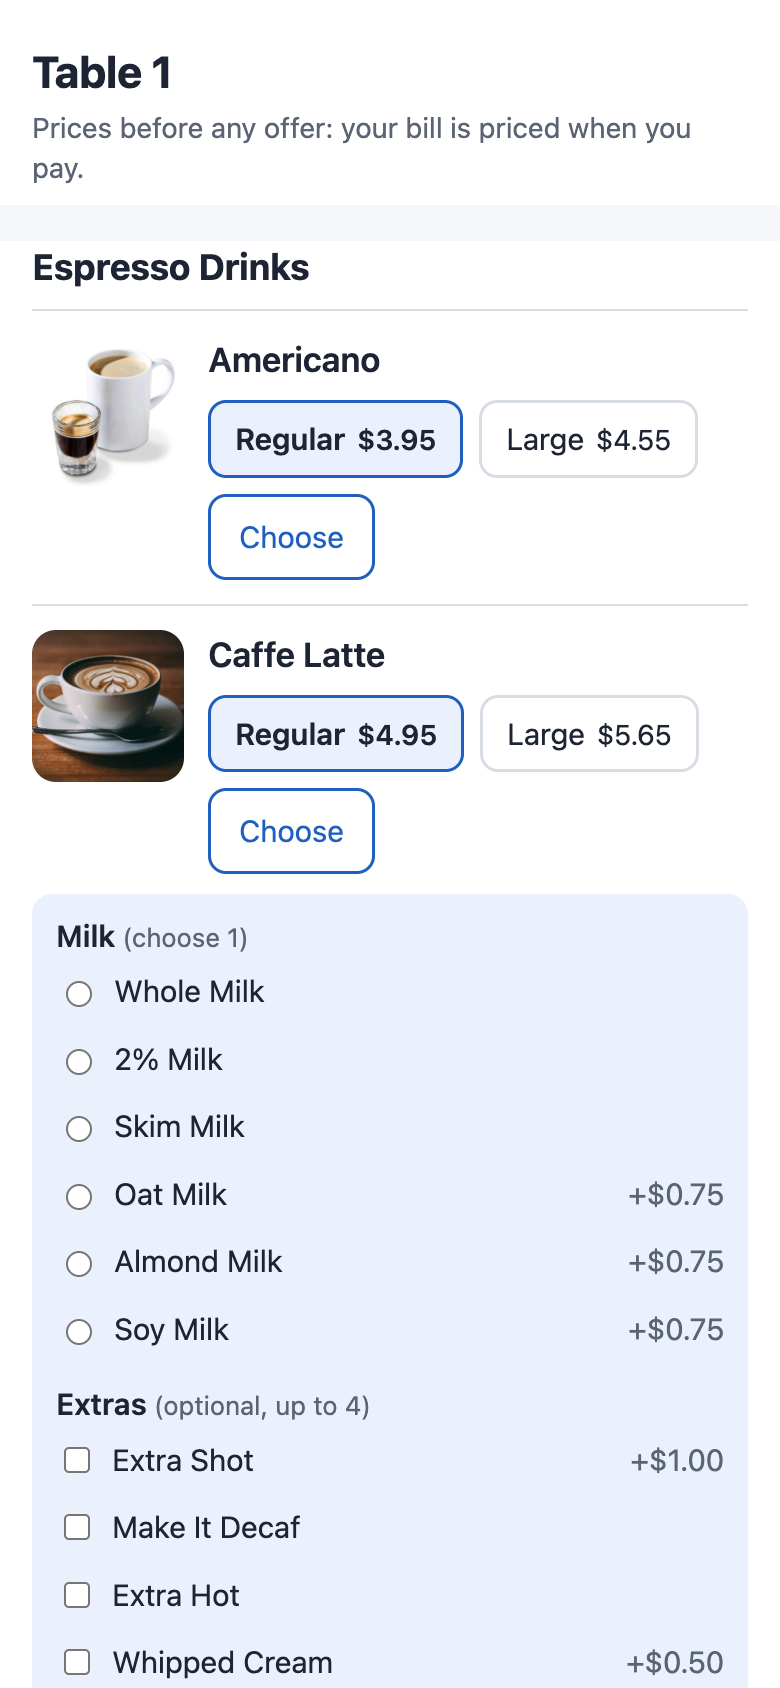
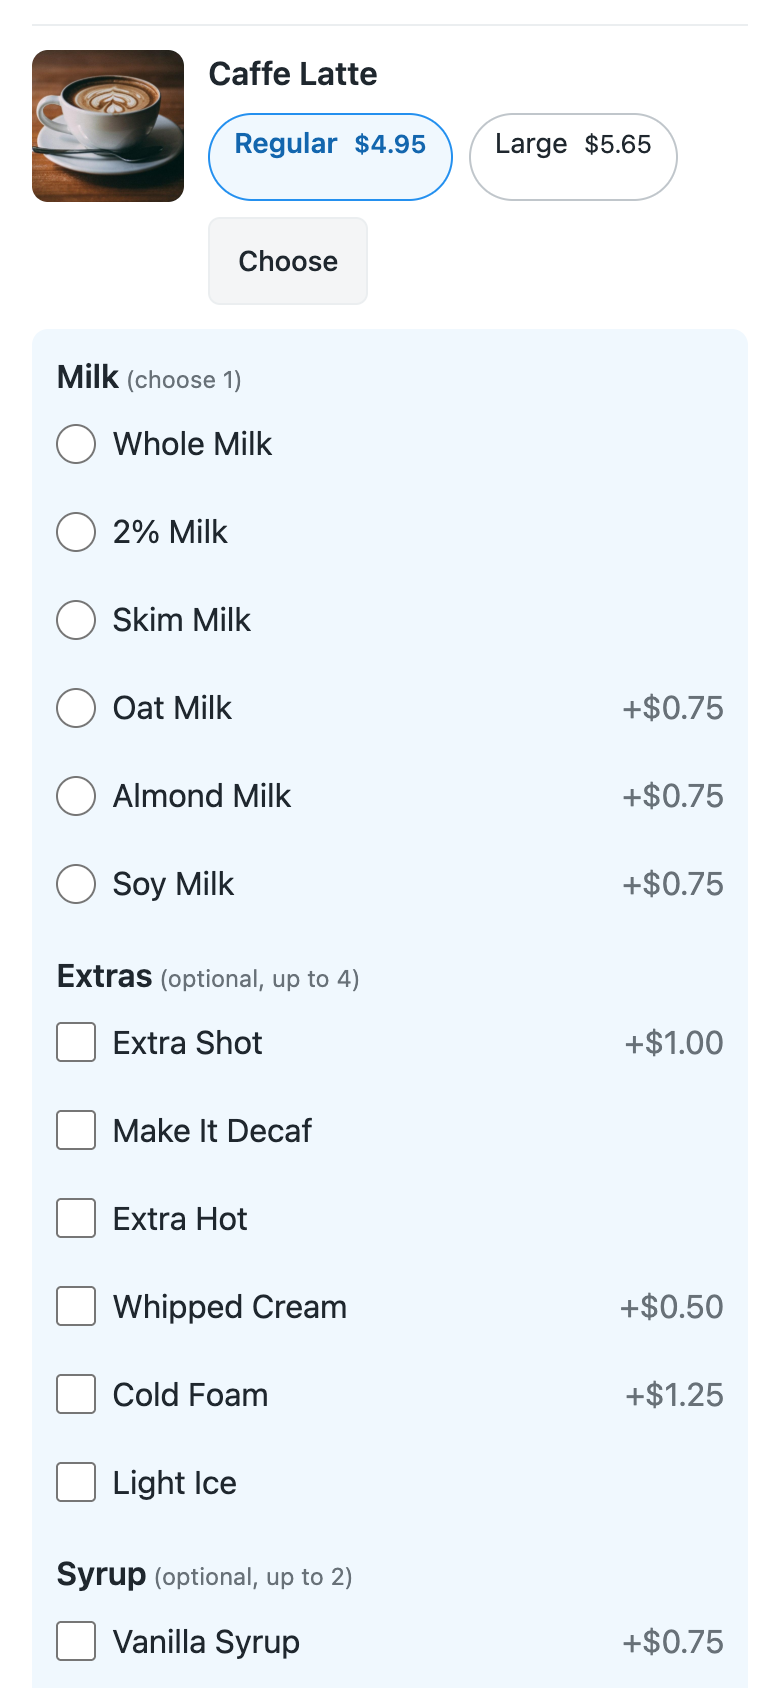
feat(kit): re-shot S56 pictures on the guest look; the guest template reads the device's language, the wall template shows its empty and note lines (#269)
* docs(s56): re-shoot the guest page's pictures from the hosted page on the kit's guest look (1.3.0)

* feat(kit): the guest template reads the device's language; the wall template shows its empty and note lines

---------

diff --git a/kit/design/templates/wall_screen.html b/kit/design/templates/wall_screen.html
@@ -38,6 +38,7 @@
   </div>
 </header>
 <section class="ivn-wall-strip" aria-label="Waiting to be made"><span>6× Margherita</span><span>3× Caesar salad</span></section>
+<p class="ivn-wall-note ivn-banner" role="alert" hidden>The connection is slow: showing the last read.</p>
 <main class="ivn-wall-board">
   <article class="ivn-wall-card is-late">
     <div class="ivn-wall-card-head">
@@ -76,6 +77,7 @@
     </div>
     <p class="ivn-wall-card-body">2× Soup of the day</p>
   </article>
+  <p class="ivn-wall-empty" hidden>No orders</p>
 </main>
 </body>
 </html>

diff --git a/kit/design/templates/guest_page.html b/kit/design/templates/guest_page.html
@@ -14,7 +14,7 @@
 <script>
   var q = new URLSearchParams(location.search);
   if (q.get("theme")) ivnKit.applyTheme({ mode: q.get("theme") });
-  if (q.get("dir") === "rtl") ivnKit.applyDir("ar");
+  ivnKit.applyDir(q.get("dir") === "rtl" ? "ar" : navigator.language);   // the device's language decides the reading way; ?dir=rtl forces it
 </script>
 </head>
 <body class="ivn ivn-guest">

diff --git a/CHANGELOG.md b/CHANGELOG.md
@@ -4,6 +4,7 @@ Versions will follow our product releases once the kit is versioned; until then 
 
 ## Unreleased
 
+- **2026-11-10 — The guest-page template takes its reading way from the device's language, the wall-screen template shows its empty and note lines (both hidden), and S56's recipe pictures are re-shot from the hosted page on the guest look (1.3.0).**
 - **2026-11-10 — S55 1.3.0 (manifest 0.4.0): the whole store's floor, on the store's own clock.** Each press reads the store's tables and its booked reservations once and writes every table whose next booking changed, so a booking that ended with no press, a booking moved to another table in the list, and the update day all show right at the next press anywhere in the store. A booking's time is read in the store's own *Time Zone* (its Warehouse's, the one its receipts print in) and written on the floor in the site's time; *Seat* checks a booking due within the party's stay on the store's clock. The site's offset is its own clock (the press's write) against the service's, so no new read of the site's settings. `role_rights` give *PP FOH Integration* read on *Warehouse*; a site that has not updated keeps the site's time. The app owns the store's table holds: a hold typed on a table by hand is cleared at the next press (README and recipe say to hold a table with a reservation). Ten tests and nine canaries. Re-copy `ivendnext_foh`. Found by hospitality `HOSP-K2d` (row `HOSP-K2g`).
 - **2026-11-10 — The kit's look for a guest page and a wall screen: `kit/design/guest.css` and `wall.css`, two templates (`guest_page.html`, `wall_screen.html`), and S56 1.3.0 and S59 1.3.4 wear them (manifests one patch up).** `guest.css` is a phone-first column built on the kit's buttons and chips (a dish with its sizes and choices, an order bar that sticks to the foot, every control 44px); `wall.css` is the wall-screen frame lifted from S59 (the unit that grows with the screen and a size step, the head, a grid of whole cards, and a state chip that shows icon, word and colour together). Both use the tokens only and the kit stays 0.1.0: no sample's pinned copy goes stale. `check_kit.sh` takes both templates in and now reads the stylesheets a page links as well (not `ivn-kit*.css`), so a sample's own `page.css` is held to tokens only; `render_templates.sh` renders both; `test_page_checks.sh` plants a hex colour in a linked stylesheet. S56 reads each dish's and choice's name in a guest's language (the size label, the section and a choice group's label stay as written) with the till's `item_names` (a phone set to a language the page has words for, not English; one call for up to 500 items, kept 2 minutes), and shows the name as written where the store has no translation or the till does not answer. S59's page keeps only the kitchen's parts in `page.css` and reads as before. Re-copy `ivendnext_gor` and `ivendnext_ksc`. A public guest page has no signed context, so S56 takes the device's light or dark setting; a retailer's own look arrives only where a service carries it, as S59's store row does.
 - **2026-11-10 — S55 1.2.0 (manifest 0.3.0): a booked table reads *Booked* on the till's floor.** *Book*, *Seat*, *No-show*, *Cancel booking* and *Change booking* each write the table's next booking (its start and end in the site's time, never the guest) on its *Retail Floor Place* (`held_from`, `held_to`), or clear them when it has none, so a server seating a walk-in sees the table is booked for 7pm. The manifest's `role_rights` give *PP FOH Integration* read and write on *Retail Floor Place*. A site that refuses the write (the app not updated there yet) keeps the booking, and the host reads that the floor was not told. Needs POS build `2.1.0.697` (train T42, `floorhold`); the open-check contract and page in `contracts/` were copied at that commit already. Nine tests and six canaries. Re-copy `ivendnext_foh`. Found by hospitality `HOSP-VR5` (F26, row `HOSP-K2d`).
